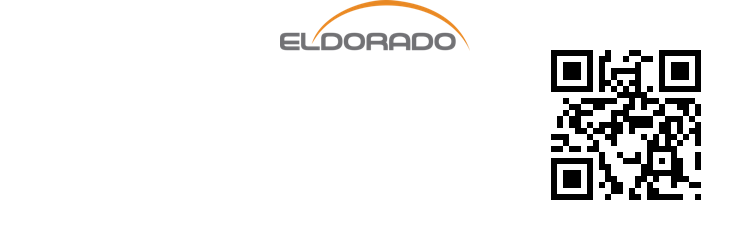
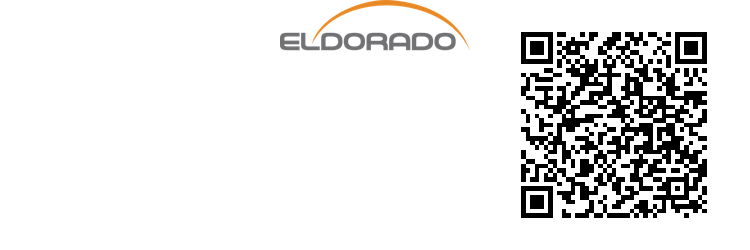
v2

Changed region(s): [[0.6747, 0.112, 0.9507, 0.896]]

diff --git a/qr_generator.py b/qr_generator.py
@@ -8,42 +8,48 @@ from PIL import Image
 #bibliotecas instaladas -> pyqrcode, pypng, pandas, Pillow e matplotlib
 #deletar a imagem depois de visualizada set -> delete_file = True
 
-delete_file = True;
+delete_temp_files = True;
 
-qrcode = QRCode('numero do item');
+qrcode = QRCode('arroz com feijão #12115132523523523526299@@..//');
 qrcode.png('images/qrcode_file.png', scale=6);
+
 
 #img = pltimg.imread('images/qrcode_file.png');
 #img_plot = plt.imshow(img, cmap='gray');
 #plt.show()
 
-qrcode_img = Image.open('images/qrcode_file.png');
+def adhesive_tag_75x25():
+    qrcode_img = Image.open('images/qrcode_file.png');
+    qrcode_img.thumbnail((222,222));
+    qrcode_img.save('images/qrcode_file_resized.png');
+    qrcode_img_resized = Image.open('images/qrcode_file_resized.png');
 
-eld_logo = Image.open('images/logo_eldorado_597x160.png');
-eld_logo.thumbnail((190, 190));
-eld_logo.save('images/eld_logo_resized.png');
-eld_logo_resized = Image.open('images/eld_logo_resized.png');
+    eld_logo = Image.open('images/logo_eldorado_597x160.png');
+    eld_logo.thumbnail((190, 190));
+    eld_logo.save('images/eld_logo_resized.png');
+    eld_logo_resized = Image.open('images/eld_logo_resized.png');
 
-background_75x25 = Image.open('images/75x25_background.png');
-img_mounting = background_75x25.copy();
+    background_75x25 = Image.open('images/75x25_background.png');
+    img_mounting = background_75x25.copy();
 
-eld_logo_pos = ( (int(background_75x25.width/2) - int(eld_logo_resized.width/2)) , (0) );
-qrcode_img_pos = ( (int(background_75x25.width) - int(qrcode_img.width) - 25) , ( int(background_75x25.height/2) - int(qrcode_img.height/2) ));
-img_mounting.paste(eld_logo_resized, eld_logo_pos, eld_logo_resized);
-img_mounting.paste(qrcode_img, qrcode_img_pos);
-
-
-img_mounting.save('images/mounted_img_75x25.png');
+    eld_logo_pos = ( (int(background_75x25.width/2) - int(eld_logo_resized.width/2)) , (0) );
+    qrcode_img_pos = ( (int(background_75x25.width) - int(qrcode_img_resized.width) - 25) , ( int(background_75x25.height/2) - int(qrcode_img_resized.height/2) ));
+    img_mounting.paste(eld_logo_resized, eld_logo_pos, eld_logo_resized);
+    img_mounting.paste(qrcode_img_resized, qrcode_img_pos);
 
 
-
-
-#imgpil.show()
-if(delete_file == True):
-    os.remove('images/eld_logo_resized.png');
+    img_mounting.save('images/mounted_img_75x25.png');
 
 
 
+
+    #imgpil.show()
+    if(delete_temp_files == True):
+        os.remove('images/eld_logo_resized.png');
+        os.remove('images/qrcode_file_resized.png');
+
+
+adhesive_tag_75x25();
 
 
 '''PILLOW - Changing Image Type
